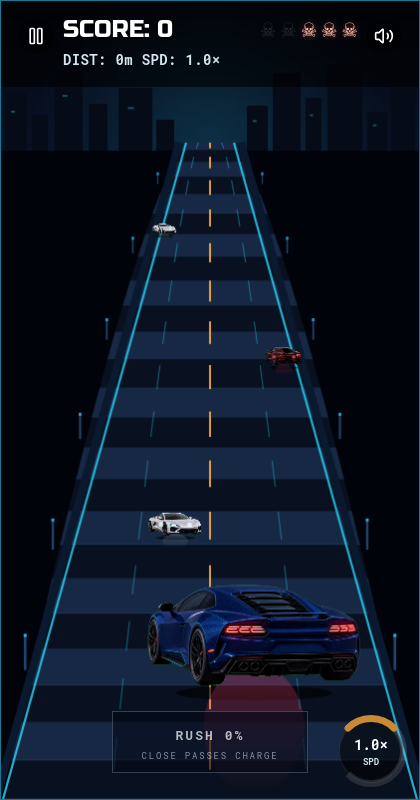
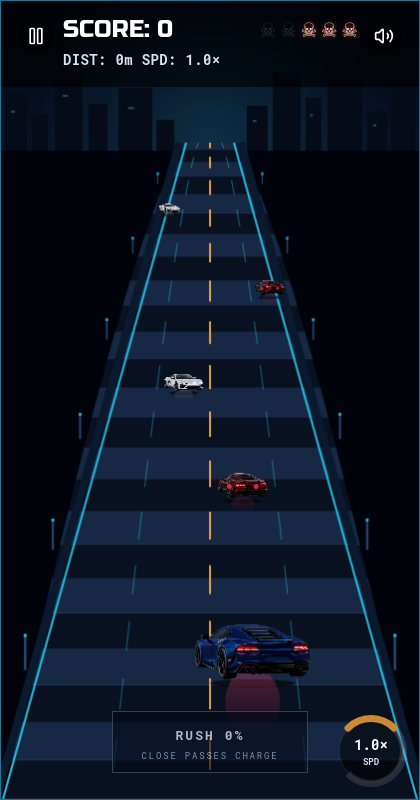
fix(render): recalibrate chase camera scale
Agent: Manus AI

diff --git a/artifacts/warboss-highway/src/lib/game/rebuild-frame.ts b/artifacts/warboss-highway/src/lib/game/rebuild-frame.ts
@@ -2,7 +2,7 @@ import type { GameState, Vehicle } from '@workspace/game-core';
 
 export const REBUILD_VIEWPORT = { width: 420, height: 800 } as const;
 const HORIZON_Y = 142;
-const PLAYER_CONTACT_Y = 690;
+const PLAYER_DEPTH = 0.87;
 const SPAWN_ROW = -160;
 const ROAD_END_ROW = 800;
 
@@ -68,9 +68,12 @@ function spriteAspect(kind: RebuildVehicleKind): number {
 function vehiclePose(id: string, vehicle: VehicleLike, kind: RebuildVehicleKind, player = false): RebuildVehiclePose {
   const contactRow = vehicle.y + vehicle.height / 2;
   const depth = depthForRow(contactRow);
-  const visualDepth = player ? 0.9 : depth;
+  const visualDepth = player ? PLAYER_DEPTH : depth;
   const trafficWidth = clamp(14 + 70 * Math.pow(depth, 1.32) * (vehicle.width / 48), 14, 92);
-  const width = player ? clamp(190 + vehicle.width * 0.85, 210, 258) : trafficWidth;
+  // A player wider than two near-field lanes read as a foreground poster rather
+  // than a vehicle. This range keeps each selected car close to one visual lane
+  // while still preserving the width distinction authored in CAR_STATS.
+  const width = player ? clamp(94 + vehicle.width * 0.65, 118, 142) : trafficWidth;
   const height = width * spriteAspect(kind);
   const alpha = player ? 1 : clamp((depth - 0.03) / 0.18, 0, 1);
   const direction = vehicle.direction;
@@ -80,7 +83,9 @@ function vehiclePose(id: string, vehicle: VehicleLike, kind: RebuildVehicleKind,
     kind,
     direction,
     x: groundX(vehicle.x, visualDepth),
-    contactY: player ? PLAYER_CONTACT_Y : groundY(depth),
+    // Player contact must be generated from exactly the same ground-depth
+    // mapping as traffic; a fixed screen Y was the remaining scale mismatch.
+    contactY: groundY(visualDepth),
     width,
     height,
     depth: visualDepth,
@@ -97,10 +102,10 @@ function createGroundingFormation(state: GameState): RebuildVehiclePose[] {
   const width = 48;
   const height = 80;
   const formation: VehicleLike[] = [
-    { x: state.lanes[0], y: 40, width, height, direction: 'OPPOSITE' },
-    { x: state.lanes[3], y: 250, width, height, direction: 'SAME' },
-    { x: state.lanes[1], y: 470, width, height, direction: 'OPPOSITE' },
-    { x: state.lanes[2], y: 590, width, height, direction: 'SAME' },
+    { x: state.lanes[0], y: 0, width, height, direction: 'OPPOSITE' },
+    { x: state.lanes[3], y: 145, width, height, direction: 'SAME' },
+    { x: state.lanes[1], y: 285, width, height, direction: 'OPPOSITE' },
+    { x: state.lanes[2], y: 425, width, height, direction: 'SAME' },
   ];
 
   return formation

diff --git a/artifacts/warboss-highway/src/pages/Game.tsx b/artifacts/warboss-highway/src/pages/Game.tsx
@@ -99,14 +99,14 @@ function CarPreview({ carType, selected }: { carType: CarType; selected: boolean
 // ── Main Page ──────────────────────────────────────────────────────────────────
 type Screen = 'title' | 'playing' | 'gameover';
 
-// The shipped Pixi scene remains the default and `?renderer=canvas2d` remains
-// its explicit fallback. The isolated `?renderer=rebuild` path is the visual
-// replacement proof slice; it shares GameEngine but owns a separate canvas so
-// it can be judged and reverted without disturbing the shipped renderer.
+// The approved rebuild renderer is the default web scene. Both the prior Pixi
+// scene (`?renderer=pixi`) and the original Canvas 2D fallback
+// (`?renderer=canvas2d`) remain explicit rollback paths while the new camera
+// proves itself under normal gameplay motion.
 const requestedRenderer =
   typeof window === 'undefined' ? null : new URLSearchParams(window.location.search).get('renderer');
-const useRebuildRenderer = requestedRenderer === 'rebuild';
-const usePixiRenderer = requestedRenderer !== 'canvas2d' && !useRebuildRenderer;
+const usePixiRenderer = requestedRenderer === 'pixi';
+const useRebuildRenderer = requestedRenderer !== 'pixi' && requestedRenderer !== 'canvas2d';
 const useOverlayRenderer = usePixiRenderer || useRebuildRenderer;
 const useGroundingDemo =
   typeof window !== 'undefined' && new URLSearchParams(window.location.search).get('demo') === 'grounding';

diff --git a/audits/2026-08-27_Manus_RendererRebuildGroundingProof_Audit.md b/audits/2026-08-27_Manus_RendererRebuildGroundingProof_Audit.md
@@ -3,11 +3,11 @@
 **Date:** 2026-08-27  
 **Branch:** `refactor/renderer-rebuild`  
 **Author:** Manus AI  
-**Status:** First web proof slice complete; owner visual approval required before expansion
+**Status:** Scale recalibrated and enabled for real web gameplay motion; native parity and atmosphere remain gated
 
 ## Scope and decision
 
-This audit records the first implementation slice of the approved renderer rebuild. It does **not** replace the existing merged Pixi or React Native Skia renderers. Instead, it introduces an isolated web route, `?renderer=rebuild&demo=grounding`, that uses the unchanged shared `GameEngine` state as input but renders a new shallow rear-chase composition in Canvas 2D. The former renderer remains the default production route and `?renderer=canvas2d` remains its manual fallback; neither has been deleted or changed as part of this proof.
+This audit records the first implementation slice of the approved renderer rebuild and its scale-calibration follow-up. The branch promotes the new Canvas 2D rear-chase renderer to its **web default**, while retaining the former Pixi scene at `?renderer=pixi` and the original Canvas fallback at `?renderer=canvas2d`. The isolated `?renderer=rebuild&demo=grounding` route remains available to freeze the initial `GameEngine` state for an exact proof capture. The shared simulation and native React Native Skia renderer are unchanged; neither legacy renderer has been deleted.
 
 The rewrite responds to a demonstrated visual failure in the earlier elevated-deck implementation: road geometry, vehicle sprites, shadows, and effects applied related but separate position rules. This created visible disagreement about where a vehicle touched the road. The proof slice gives every rendered vehicle one `GroundPose` generated by a pure `buildRebuildFrame()` module. The road width, road row, vehicle scale, tire contact row, contact shadow, and wet-road reflection are all derived from that same pose.
 
@@ -17,7 +17,7 @@ The rewrite responds to a demonstrated visual failure in the earlier elevated-de
 | --- | --- | --- |
 | `rebuild-frame.ts` | Pure screen-space ground/contact poses from immutable `GameState`; no gameplay mutation. | Yes |
 | `rebuild-renderer.ts` | Stable Canvas 2D chase-camera scene, road, skyline, rails, vehicle layering, shadows, and reflections. | Yes |
-| `Game.tsx` | Selects `?renderer=rebuild`; `demo=grounding` freezes the initial engine state for a reproducible approval frame. | Yes |
+| `Game.tsx` | Selects the rebuild renderer by default; `renderer=pixi` and `renderer=canvas2d` retain rollback routes; `demo=grounding` freezes the initial engine state for a reproducible proof frame. | Yes |
 | Compact vehicle textures | Three keyed RGBA rear/front chase vehicle textures; source masters remain ignored. | Yes |
 | Legacy Pixi scene and native Skia scene | Existing production/rollback renderers. | Retained, unmodified by this proof |
 
@@ -25,11 +25,15 @@ The implementation has no changes to `lib/game-core`, movement, collision geomet
 
 ## Evidence
 
-The capture below was obtained from the isolated browser at the exact 420×800 viewport using the proof URL after Start Engine. The capture uses the static approval mode, so `SCORE`, `DIST`, and speed stay at their initial values; that behavior is deliberate and is not a playable mode.
+The captures below were obtained from the isolated browser at the exact 420×800 viewport. The static `demo=grounding` proof holds `SCORE`, `DIST`, and speed at their initial values by design; the separate moving capture uses the normal default route and advances real shared-engine state.
 
-![Renderer rebuild grounding proof](2026-08-27_Manus_RendererRebuildGroundingProof.png)
+![Matched legacy versus recalibrated rebuild comparison](2026-08-28_Manus_LegacyVsRebuild_Comparison.png)
 
-In the recorded frame, the player, same-direction traffic, and oncoming traffic all recede or enlarge along the same cyan-railed road corridor. The player’s actual image baseline ends at the compact shadow/reflection row, while traffic positions and scale converge toward the horizon. This replaces the prior independent, flat/sprite-center placement with one road-plane contact contract.
+![Recalibrated renderer rebuild grounding proof](2026-08-27_Manus_RendererRebuildGroundingProof.png)
+
+![Default rebuild renderer after live shared-state motion](2026-08-28_Manus_RendererRebuild_LiveMotion.png)
+
+The comparison exposed that the initial rebuild player width was too dominant relative to a near-field lane. It was recalibrated from a 210–258px range to a selected-car-aware 118–142px range, and its contact row now derives from the same depth function as the road and rails. In the recorded frame, the player, same-direction traffic, and oncoming traffic all recede or enlarge along the same cyan-railed road corridor. The live capture reaches `SCORE: 23` and `DIST: 281m` without a game-over overlay, demonstrating real default-route state advancement rather than the frozen proof mode.
 
 ## Asset contract
 
@@ -42,17 +46,18 @@ The runtime proof uses three compact RGBA vehicle textures documented in [`docs/
 | Frontend TypeScript | Passed | `pnpm --filter @workspace/warboss-highway run typecheck` |
 | Full workspace TypeScript | Passed | `pnpm run typecheck` |
 | Whitespace validation | Passed | `git diff --check` |
-| Isolated 420×800 visual capture | Passed | Screenshot above; 0 browser console errors at route navigation/start. |
-| Normal legacy default renderer | Preserved by code path | Not re-profiled in this proof pass. |
+| Isolated 420×800 static proof and comparison | Passed | Matching legacy/rebuild capture; 0 browser console errors at route navigation/start. |
+| Isolated 420×800 live renderer capture | Passed | Default route reaches `SCORE: 23`, `DIST: 281m` after 1.5 seconds, with 0 console errors. |
+| Legacy Pixi and Canvas routes | Preserved by code path | Available at `renderer=pixi` and `renderer=canvas2d`; not re-profiled in this pass. |
 | Physical iOS/Android runtime | Not run | No emulator or device profiler was available. |
-| Hardware WebGL | Not evaluated | The rebuild proof is Canvas 2D and is not a WebGL performance claim. |
-| Native Skia renderer rebuild | Not started | Deferred until owner accepts this web proof composition. |
-| Remote CI/PR | Not started | This proof branch is intentionally uncommitted/unpushed at audit time. |
+| Hardware WebGL | Not evaluated | The rebuild renderer is Canvas 2D and is not a WebGL performance claim. |
+| Native Skia renderer rebuild | Not started | Deferred pending stable web motion acceptance. |
+| Remote CI/PR | Review pending | [PR #34](https://github.com/Thatisshayan/NightRacer/pull/34) contains the initial proof; calibration and motion follow-up are pending commit/push. |
 
 ## Explicit exclusions
 
-The first proof slice deliberately excludes rain, lightning, billboards, puddle fields, boss rendering, obstacles, pickups, screen-shake treatment, Rush visuals, high-speed motion capture, accessibility review, runtime culling under dense traffic, native Skia parity, and TestFlight distribution. None of these are represented as complete. They must be layered only after the owner accepts this frame’s camera, car-scale, and road-contact composition.
+The rebuild has demonstrated only a short normal-motion capture; it does not certify high-speed behavior, performance, accessibility, dense traffic culling, or cross-platform parity. Rain, lightning, billboards, puddle fields, boss rendering, obstacles, pickups, screen-shake treatment, Rush visuals, native Skia parity, and TestFlight distribution remain excluded. None of these are represented as complete.
 
 ## Next approval gate
 
-The required owner decision is whether the **camera pitch, realistic rear-chase vehicle scale, road-plane contact, and overall road corridor** are now a credible foundation. A visual acceptance permits the next bounded phase: apply the same pure visual frame to real web state, add a motion proof, then implement a matching native adapter. A rejection retains the legacy implementation as rollback and prompts an adjustment to this isolated proof branch; no existing renderer will be removed without explicit approval.
+The owner approved continuation after requesting a corrected player scale, a side-by-side comparison, and real web gameplay motion. Those requirements are complete on the branch. The next bounded phase is to validate high-speed/dense-traffic motion and then apply the same pure visual-frame layout to a native Skia adapter. The legacy implementation remains available as rollback; no renderer will be deleted without explicit approval.

diff --git a/RENDERER_REBUILD_PLAN.md b/RENDERER_REBUILD_PLAN.md
@@ -1,6 +1,6 @@
 # NightRacer Renderer Rebuild Plan
 
-**Status:** Proposal for approval before implementation  
+**Status:** In progress — scale recalibrated and enabled for real web gameplay motion; atmosphere and native adapter deferred
 **Author:** Manus AI  
 **Date:** 2026-08-27  
 **Decision:** Stop extending the present 2.5D Pixi/Skia scene. Preserve the authoritative game simulation and replace the visual presentation through a clean, proof-first renderer migration.
@@ -91,7 +91,7 @@ The replacement renderer is not “done” because the code compiles. It moves f
 
 ### Phase 0 — Freeze visual scope and retain rollback
 
-Create `renderer=legacy` and `renderer=rebuild` routing with the current renderer untouched. Do not delete Pixi, Skia, sprite, or Canvas fallback code. Add a development-only deterministic scene seed so the same player/traffic formation can be captured repeatedly. Record two baselines: the currently rejected production image and the new target image.
+Retain the prior Pixi scene at `renderer=pixi` and the original Canvas fallback at `renderer=canvas2d`. Promote the accepted rebuild path to the branch default only after the grounding proof is reviewed. Do not delete Pixi, Skia, sprite, or Canvas fallback code. Add a development-only deterministic scene seed so the same player/traffic formation can be captured repeatedly. Record a matched legacy baseline and the rebuilt target image.
 
 **Exit condition:** The legacy experience remains playable and the replacement scene can be selected without changing simulation behavior.
 
@@ -127,7 +127,7 @@ Implement the native renderer from the shared `VisualFrame`. Use fixed Skia node
 
 ### Phase 6 — Review, rollout, and retirement decision
 
-Deploy the replacement behind `renderer=rebuild`. Compare accepted screenshots and a short gameplay clip against legacy. Only after the owner approves the replacement may a separate, explicit deletion request be opened to retire legacy renderer code. Until then, legacy remains a rollback path.
+Run the replacement as the web default on its review branch while retaining `renderer=pixi` and `renderer=canvas2d` rollback routes. Compare accepted screenshots and a short gameplay clip against legacy. Only after the owner approves the replacement may a separate, explicit deletion request be opened to retire legacy renderer code.
 
 **Exit condition:** Owner accepts the live visual direction and authorizes legacy retirement separately.
 
@@ -146,8 +146,8 @@ Deploy the replacement behind `renderer=rebuild`. Compare accepted screenshots a
 
 The rebuild will not alter driving logic, tune collision difficulty, add new monetization, add paid infrastructure, delete existing renderer files, or submit another TestFlight build until the web visual gates are accepted. It will not declare parity, polish, or playability from source review alone.
 
-## Approval request
+## Approved scope and current milestone
 
-Approve this direction if you want a **real renderer replacement**, not another attempt to make the existing 2.5D patch stack look better. The first implementation deliverable will be a web-only, deterministic `?demo=grounding` scene with no rain or lightning until you approve an actual 9:16 image proving that player and traffic are anchored to the road. Only after that image passes will the cyberpunk atmosphere and mobile adapter be built.
+The owner approved the renderer-replacement direction and asked for a corrected car scale, a matched side-by-side comparison, and real web gameplay motion. The branch now contains all three: a `?renderer=rebuild&demo=grounding` static proof, a legacy-versus-rebuild capture, and a short default-route motion capture driven by real `GameEngine` state.
 
-If approved, I will start with Phase 0–1 on a new `refactor/renderer-rebuild` branch, preserving the current shipped renderer as rollback and asking for no deletion permission.
+The next work remains intentionally bounded: validate high-speed and dense-traffic behavior before adding wet atmosphere, then implement native Skia as a drawing adapter over the same visual-frame layout. The former Pixi and Canvas scenes stay available as rollback paths; no deletion or TestFlight submission is authorized by this milestone.

diff --git a/docs/RENDERER_REBUILD_ASSETS.md b/docs/RENDERER_REBUILD_ASSETS.md
@@ -2,7 +2,7 @@
 
 **Owner:** Shayan  
 **Author:** Manus AI  
-**Status:** Active for the web grounding proof slice  
+**Status:** Active for the recalibrated web renderer and real-motion review slice
 **Date:** 2026-08-27
 
 ## Purpose
@@ -27,7 +27,7 @@ The committed textures are reduced to final-use web dimensions and have verified
 
 ## First-slice constraints
 
-The grounding proof slice uses only the three textures above, fixed recyclable road geometry, a stable camera specification, and a deterministic demo traffic formation. Lightning, billboards, broad rain layers, boss art, obstacles, and power-up art are excluded until the owner accepts a real 9:16 contact frame.
+The active web slice uses only the three textures above, fixed recyclable road geometry, a stable camera specification, a deterministic demo traffic formation, and normal live `GameEngine` state. Lightning, billboards, broad rain layers, boss art, obstacles, and power-up art remain excluded until high-speed/dense-traffic motion is validated.
 
 ## Asset verification checklist
 
